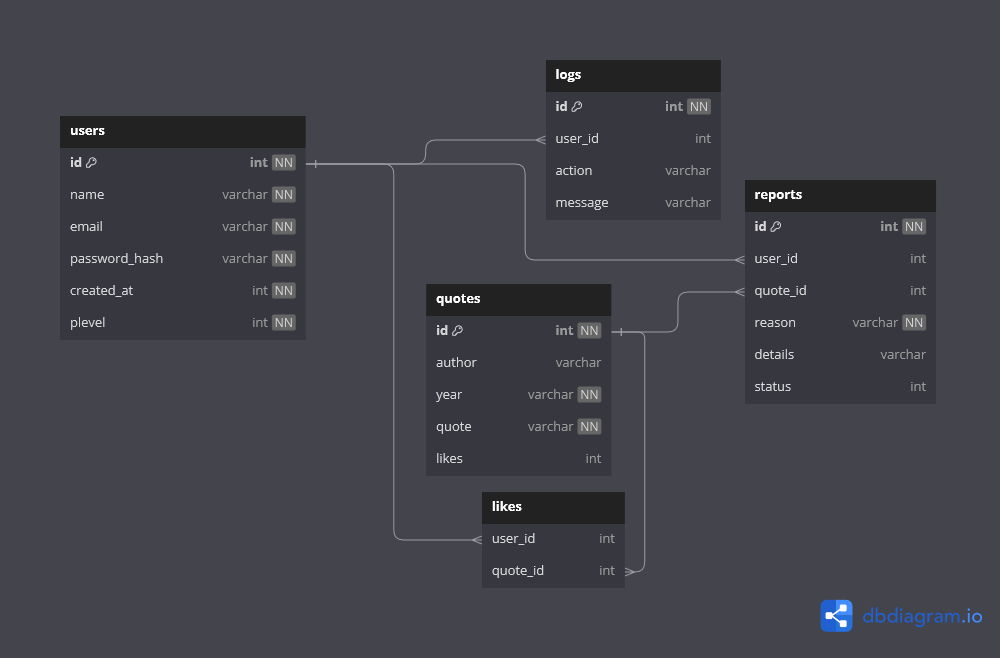
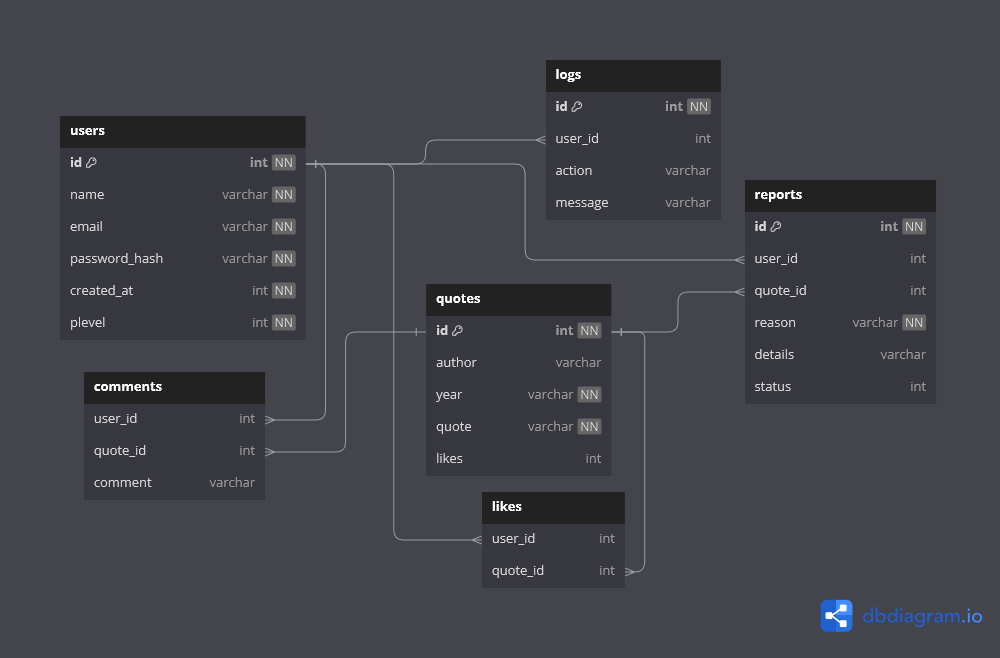
updated the database schema to include comments

diff --git a/utils/databaseManager.py b/utils/databaseManager.py
@@ -51,11 +51,5 @@ class DatabaseManager:
         '''
         with self.conn:
             cursor = self.conn.cursor()
-            # drop all tables
-            cursor.execute('DROP TABLE IF EXISTS users')
-            cursor.execute('DROP TABLE IF EXISTS quotes')
-            cursor.execute('DROP TABLE IF EXISTS reports')
-            cursor.execute('DROP TABLE IF EXISTS logs')
-            cursor.execute('DROP TABLE IF EXISTS likes')
             with open('database_query.sql', 'r') as f:
                 cursor.executescript(f.read())

diff --git a/docs/design/database.md b/docs/design/database.md
@@ -100,9 +100,16 @@ CREATE TABLE `likes` (
 `quote_id` int
 );
 
+CREATE TABLE `comments` (
+`user_id` int,
+`quote_id` int,
+`comment` TEXT
+);
 ALTER TABLE `reports` ADD FOREIGN KEY (`user_id`) REFERENCES `users` (`id`);
 ALTER TABLE `reports` ADD FOREIGN KEY (`quote_id`) REFERENCES `quotes` (`id`);
 ALTER TABLE `logs` ADD FOREIGN KEY (`user_id`) REFERENCES `users` (`id`);
 ALTER TABLE `likes` ADD FOREIGN KEY (`user_id`) REFERENCES `users` (`id`);
 ALTER TABLE `likes` ADD FOREIGN KEY (`quote_id`) REFERENCES `quotes` (`id`);
+ALTER TABLE `comments` ADD FOREIGN KEY (`user_id`) REFERENCES `users` (`id`);
+ALTER TABLE `comments` ADD FOREIGN KEY (`quote_id`) REFERENCES `quotes` (`id`);
 ```

diff --git a/docs/design/ui.md b/docs/design/ui.md
@@ -1,0 +1,5 @@
+# UI design
+## Page overview
+1. Home Page: This page will contain a quote of the day, which is a random quote selected with the seed of the current date.
+2. Quote List: This page contains the quotes subbmitted to the site, allowing searching through them.
+3. Quote Page: This page is dedicated to a single quote, and allows comments on these quotes.
